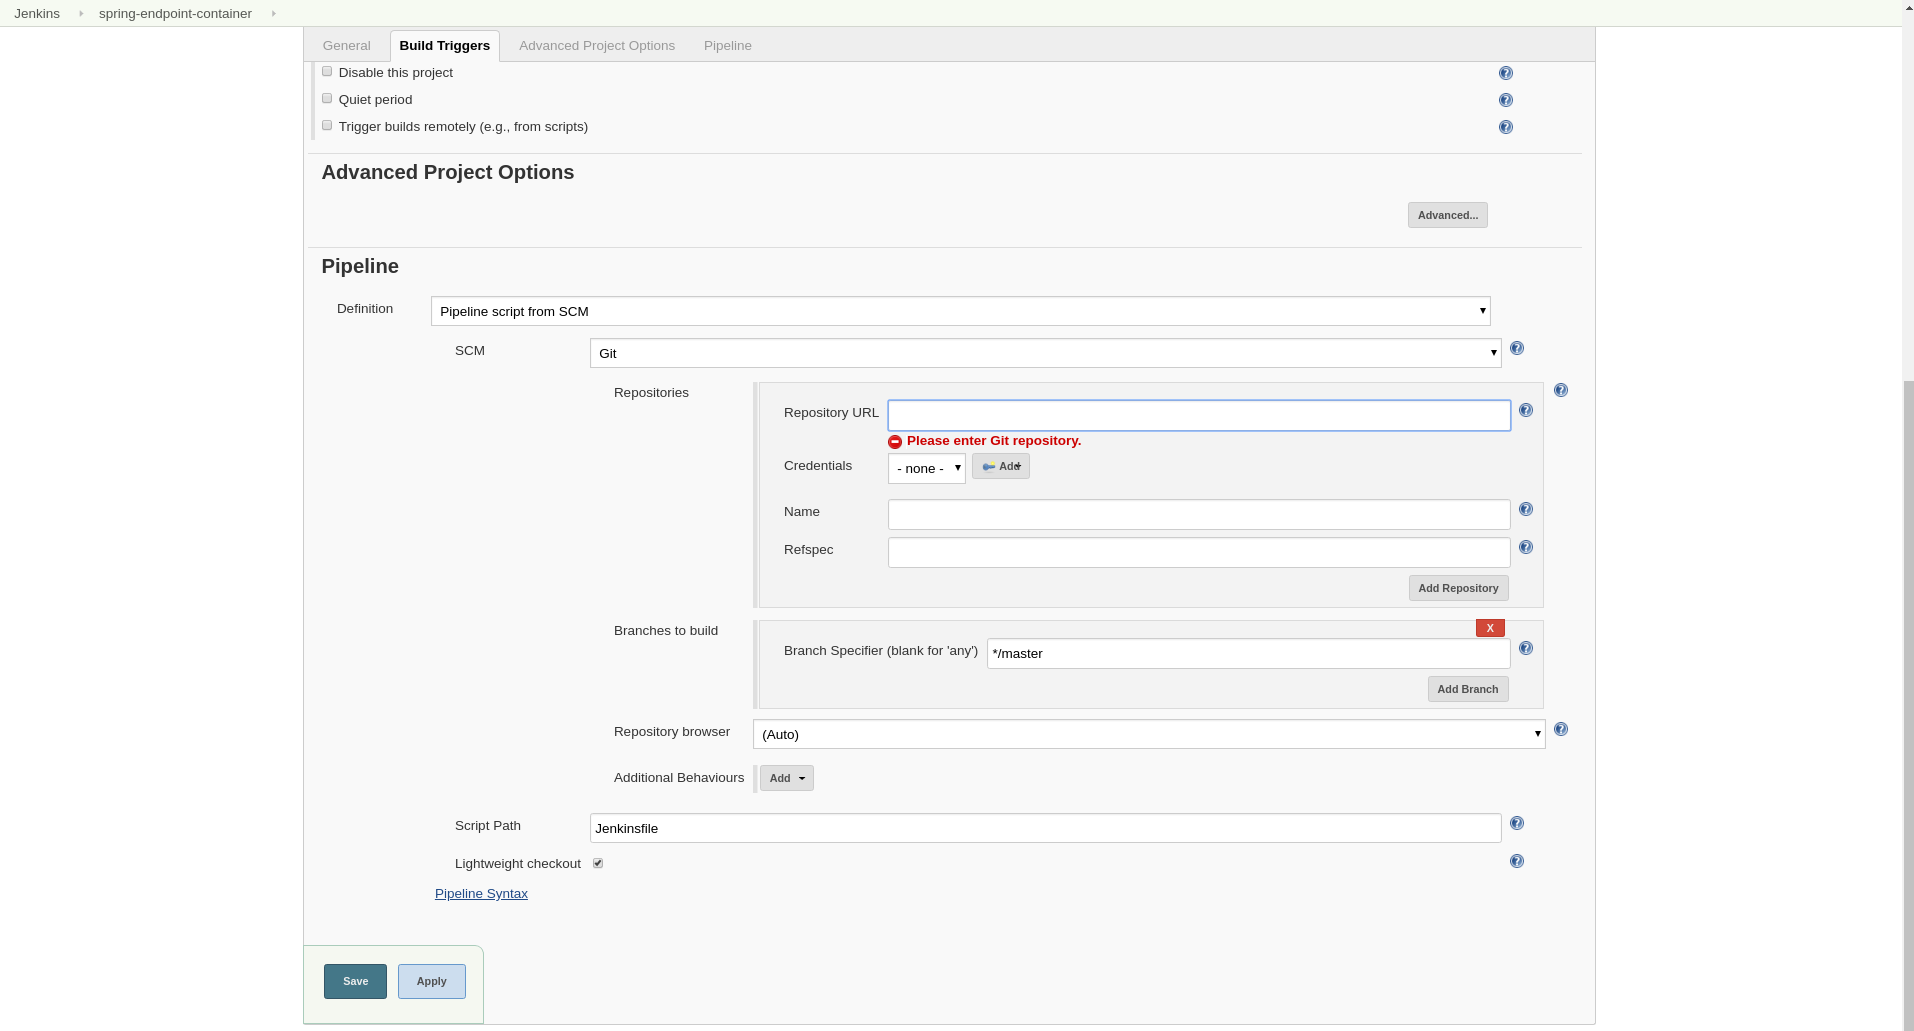
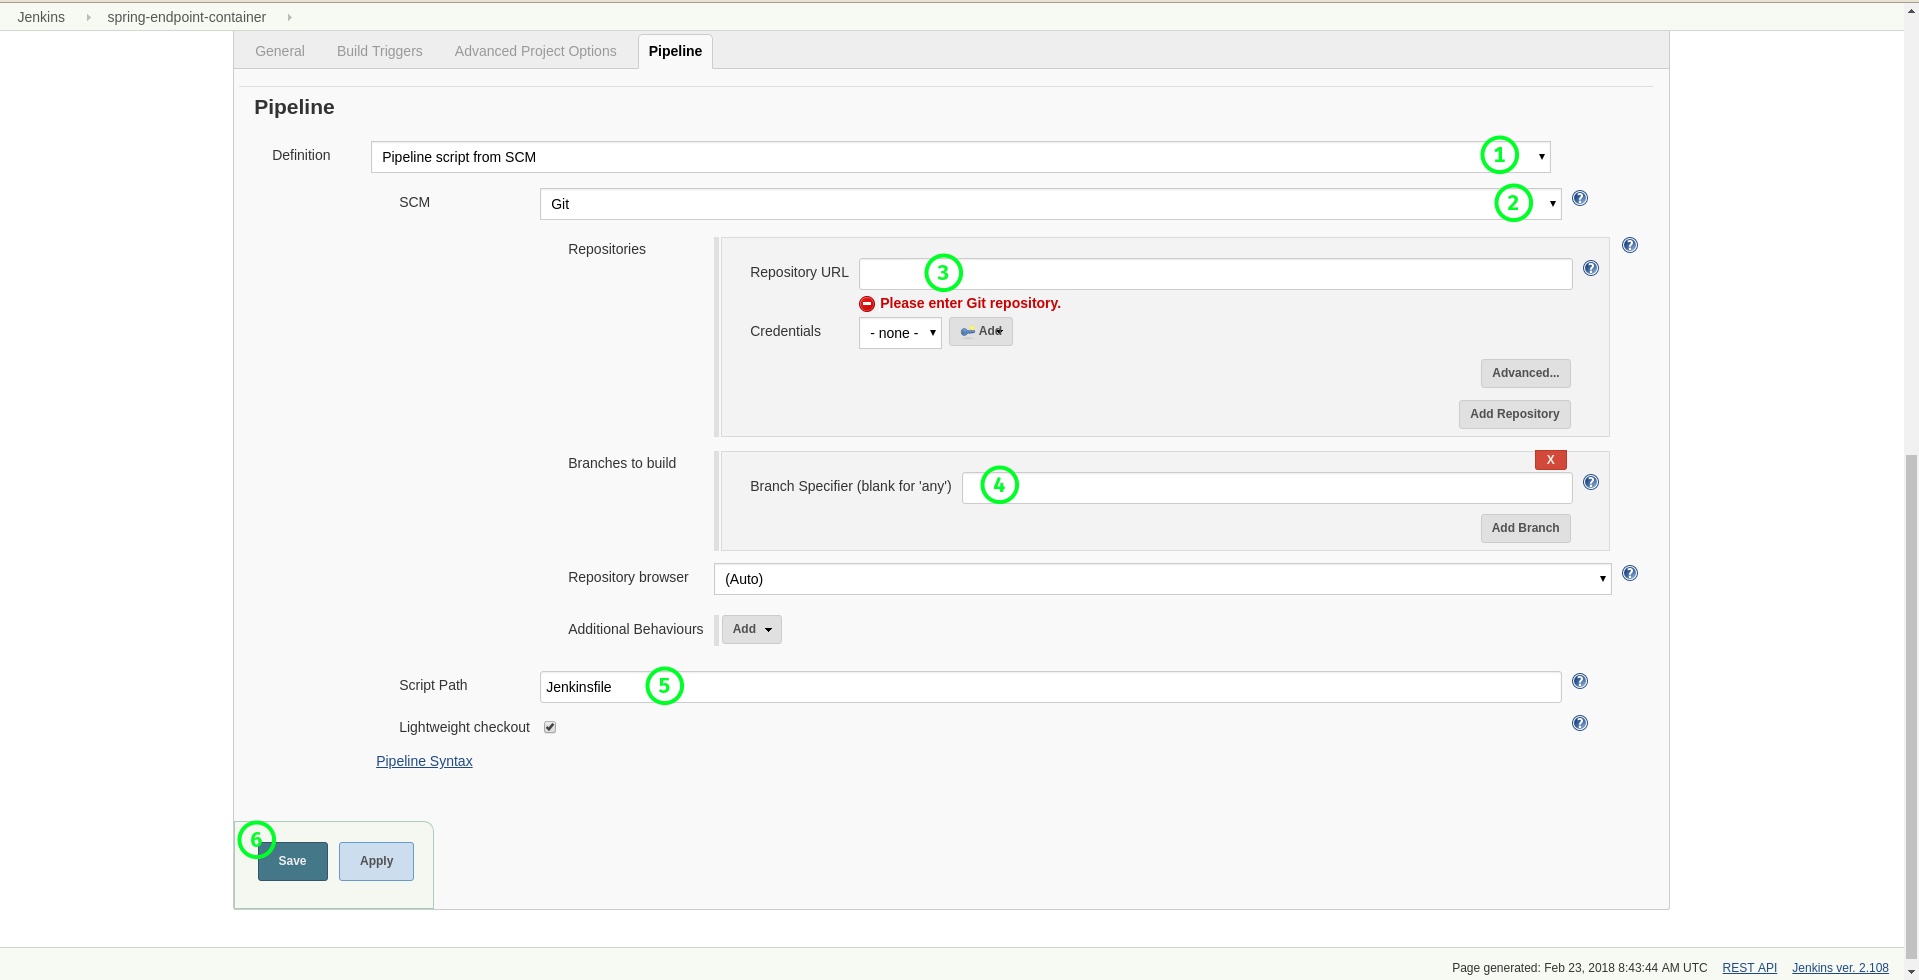
project creation description

diff --git a/README.md b/README.md
@@ -129,8 +129,15 @@ Type `DevTools`, `Web` and `Jersey` in the dependencies field
 
 ![jenkins main page](./doc/images/022.png "Jenkins welcome page")
 
-2. Click  `create new jobs`. Enter project name `spring-endpoint-container` and select `Pipeline`. 
+2. Click  **create new jobs**. Enter project name `spring-endpoint-container`, select **Pipeline** and click **ok**.
 
     ![Creating of jenkins job](./doc/images/023.png "Creating of jenkins job")
 
-3. 
+3. Scroll down to section **Pipeline**. Then 
+    1. Select **Pipeline script from SCM` in dropdwon list (1)
+    2. Select **Git** as SCM
+    3. Paste into **repository url** url of repository, for example `https://andreichern0v@bitbucket.org/andreichern0v/spring-endpoint-container.git`
+    4. Paste into field **Branch specifier** repository branch, for example `refs/heads/feature/initializr`
+    5. Check that **Script path** filed contain `Jenkinsfile`.
+    6. Click **Save**
+    ![Creating of jenkins job](./doc/images/024.png "Creating of jenkins job")
